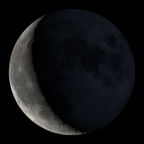
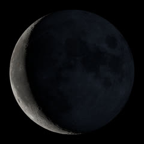
Show today's moon phase when there are no more events
- New default no-events image: today's actual moon, picked from the 30
  NASA SVS Dial-A-Moon phase images Perpetual uses, with Perpetual's
  phase calculation (MoonPhase.swift). Replaces the single crescent.
- New "Crescent moon 🌙" option, drawn with the emoji font at run time.
- README: moon phase listed first as the default; NASA credited.

Changed region(s): [[0.0556, 0.1111, 0.6111, 0.9444]]

diff --git a/StreamDeck Calendar Alerts/MoonPhase.swift b/StreamDeck Calendar Alerts/MoonPhase.swift
@@ -1,0 +1,33 @@
+import Foundation
+
+// Today's moon, for the "Moon" no-events image. Ported from Joe Angell's
+// Perpetual (SkyKit's MoonAngle) so the key shows the same frame Perpetual does.
+//
+// The images are thirty renderings of a month of phases (Images/moon-00 …
+// moon-29, 12° apart, new moon first, full at moon-15) from NASA's Scientific
+// Visualization Studio (Dial-A-Moon), made from Lunar Reconnaissance Orbiter data.
+// NASA imagery isn't copyrighted; NASA asks only for credit.
+enum MoonPhase {
+    // The angle the moon has drawn ahead of the sun around the sky: 0° at new
+    // moon, 90° at first quarter, 180° at full and 270° at last quarter. Uses the
+    // short series in the Astronomical Almanac, good to a few tenths of a degree.
+    static func phaseAngle(at date: Date) -> Double {
+        func sine(_ degrees: Double) -> Double { sin(degrees * .pi / 180) }
+        let days = date.timeIntervalSince1970 / 86_400 + 2_440_587.5 - 2_451_545
+        let t = days / 36_525
+        let moon = 218.32 + 481_267.881 * t + 6.29 * sine(135.0 + 477_198.87 * t) - 1.27 * sine(259.3 - 413_335.36 * t)
+            + 0.66 * sine(235.7 + 890_534.22 * t) + 0.21 * sine(269.9 + 954_397.74 * t)
+            - 0.19 * sine(357.5 + 35_999.05 * t) - 0.11 * sine(186.5 + 966_404.03 * t)
+        let anomaly = 357.5291 + 0.98560028 * days
+        let sun = anomaly + 1.9148 * sine(anomaly) + 0.02 * sine(2 * anomaly) + 180 + 102.9372
+        let angle = (moon - sun).truncatingRemainder(dividingBy: 360)
+        return angle < 0 ? angle + 360 : angle
+    }
+
+    // The image name for a day's moon (moon-00 … moon-29), taken at local noon so
+    // the whole day shows one frame, as Perpetual does.
+    static func imageName(onDayOf day: Date) -> String {
+        let angle = phaseAngle(at: Calendar.current.startOfDay(for: day) + 12 * 3600)
+        return String(format: "moon-%02d", Int((angle / 12).rounded()) % 30)
+    }
+}

diff --git a/propertyinspector/index.html b/propertyinspector/index.html
@@ -114,12 +114,13 @@
 
     <div class="section-label">When there are no more events</div>
     <select id="noEventsStyle">
+        <option value="moon">Moon phase</option>
         <option value="smile">Smiling calendar (light)</option>
         <option value="smile-dark">Smiling calendar (dark)</option>
         <option value="check">Checkmark Calendar</option>
         <option value="check-emoji">Checkmark ✅</option>
         <option value="thumbs">Thumbs up 👍</option>
-        <option value="moon">Crescent moon</option>
+        <option value="crescent">Crescent moon 🌙</option>
         <option value="text">Text only</option>
         <option value="message">Your own message…</option>
         <option value="custom">Your own image…</option>
@@ -150,7 +151,7 @@
             selectedCalendars: [],      // empty means "all calendars"
             openApp: 'com.apple.iCal',  // a bundle ID, a 'web:' id, or 'url'
             openURL: '',
-            noEventsStyle: 'smile',     // smile | smile-dark | check | check-emoji | thumbs | moon | text | message | custom
+            noEventsStyle: 'moon',      // moon | smile | smile-dark | check | check-emoji | thumbs | crescent | text | message | custom
             noEventsMessage: '',        // the key's text when noEventsStyle is 'message'
             noEventsImage: ''           // data: URL when noEventsStyle is 'custom'
         };
@@ -160,7 +161,7 @@
             settings.selectedCalendars = s.selectedCalendars || [];
             settings.openApp = s.openApp || 'com.apple.iCal';
             settings.openURL = s.openURL || '';
-            settings.noEventsStyle = s.noEventsStyle || 'smile';
+            settings.noEventsStyle = s.noEventsStyle || 'moon';
             settings.noEventsMessage = s.noEventsMessage || '';
             settings.noEventsImage = s.noEventsImage || '';
         }

diff --git a/StreamDeck Calendar Alerts/ButtonImageRenderer.swift b/StreamDeck Calendar Alerts/ButtonImageRenderer.swift
@@ -74,11 +74,12 @@ final class ButtonImageRenderer {
     }
 
     // What the key shows when there are no more events today. Styles:
-    //   "smile"      – the bundled smiling calendar, light version (default)
+    //   "smile"      – the bundled smiling calendar, light version
     //   "smile-dark" – the same, dark version
     //   "check"      – a drawn red calendar with a white checkmark and "All clear"
     //   "check-emoji" – a checkmark emoji
-    //   "moon"       – a crescent moon (NASA photo, bundled)
+    //   "moon"       – today's moon phase (NASA images, bundled; see MoonPhase) (default)
+    //   "crescent"   – a crescent moon emoji
     //   "thumbs"     – a thumbs-up emoji
     //   "text"       – the words "No more events today"
     //   "message"    – the user's own words, passed in as customMessage
@@ -102,10 +103,12 @@ final class ButtonImageRenderer {
             return renderMessage(Self.defaultNoEventsText)
         case "smile-dark":
             return bundledImage("no-events-dark") ?? renderAllClear()
-        case "moon":
-            return bundledImage("no-events-moon") ?? renderEmoji("🌙")
-        default:
+        case "crescent":
+            return renderEmoji("🌙")
+        case "smile":
             return bundledImage("no-events-light") ?? renderAllClear()
+        default:  // "moon", and any unknown style
+            return bundledImage(MoonPhase.imageName(onDayOf: Date())) ?? renderEmoji("🌙")
         }
     }
 

diff --git a/StreamDeck Calendar Alerts/CalendarAction.swift b/StreamDeck Calendar Alerts/CalendarAction.swift
@@ -16,7 +16,7 @@ final class CalendarAction {
     private var selectedCalendarIDs: Set<String> = []          // empty = all calendars
     private var openApp = AppLauncher.appleCalendarID          // bundle ID, or AppLauncher.urlChoice
     private var openURL = ""
-    private var noEventsStyle = "smile"                         // smile | smile-dark | check | check-emoji | thumbs | moon | text | message | custom
+    private var noEventsStyle = "moon"                          // moon | smile | smile-dark | check | check-emoji | thumbs | crescent | text | message | custom
     private var noEventsMessage = ""                            // the user's words for "message"
     private var noEventsImage = ""                              // data: URL for "custom"
 
@@ -31,7 +31,7 @@ final class CalendarAction {
         selectedCalendarIDs = Set(settings["selectedCalendars"] as? [String] ?? [])
         openApp       = settings["openApp"] as? String ?? AppLauncher.appleCalendarID
         openURL       = settings["openURL"] as? String ?? ""
-        noEventsStyle = settings["noEventsStyle"] as? String ?? "smile"
+        noEventsStyle = settings["noEventsStyle"] as? String ?? "moon"
         noEventsMessage = settings["noEventsMessage"] as? String ?? ""
         noEventsImage = settings["noEventsImage"] as? String ?? ""
         if minuteTimer != nil { update() }

diff --git a/README.md b/README.md
@@ -12,7 +12,7 @@ A Stream Deck plugin for macOS that puts your next calendar event on a key. It c
 <img src="docs/images/key-8m.png" width="72" alt="8 minutes">
 <img src="docs/images/key-3m.png" width="72" alt="3 minutes">
 <img src="docs/images/key-now.png" width="72" alt="NOW">
-<img src="docs/images/no-events-smile.png" width="72" alt="No more events">
+<img src="docs/images/no-events-moon.png" width="72" alt="No more events: tonight's moon">
 </p>
 
 **[Download the installer](https://github.com/jangellx/StreamDeck-Calendar-Alerts/releases/latest/download/com.joeangell.calendar-alerts.streamDeckPlugin)**. Requires macOS 14 or later and the Stream Deck app.
@@ -34,7 +34,7 @@ The key shows the title of your next event today and how long until it starts:
 - Your Mac's alert sound plays at 60, 30, 15 and 5 minutes before each event.
 - Only events still to come today are shown. All-day events, cancelled events and events you've declined are skipped.
 - A leading room number is trimmed from titles, so "101 Team Standup" shows as "Team Standup".
-- When there's nothing left today, the key shows a smiling calendar, or whichever image you've picked (see below).
+- When there's nothing left today, the key shows tonight's moon phase, or whichever image you've picked (see below).
 
 ## Settings
 
@@ -57,9 +57,9 @@ Select the key in the Stream Deck app to see its settings. Each key has its own,
   When there are no more events today, the key just opens the app.
 - **When there are no more events**: choose what the key shows.
 
-  <img src="docs/images/no-events-smile.png" width="56" alt="Smiling calendar (light)"> <img src="docs/images/no-events-smile-dark.png" width="56" alt="Smiling calendar (dark)"> <img src="docs/images/no-events-check.png" width="56" alt="Checkmark Calendar"> <img src="docs/images/no-events-moon.png" width="56" alt="Crescent moon"> <img src="docs/images/no-events-text.png" width="56" alt="Text only">
+  <img src="docs/images/no-events-moon.png" width="56" alt="Moon phase"> <img src="docs/images/no-events-smile.png" width="56" alt="Smiling calendar (light)"> <img src="docs/images/no-events-smile-dark.png" width="56" alt="Smiling calendar (dark)"> <img src="docs/images/no-events-check.png" width="56" alt="Checkmark Calendar"> <img src="docs/images/no-events-text.png" width="56" alt="Text only">
 
-  The choices are a smiling calendar (light or dark), a checkmark calendar, a checkmark ✅ or thumbs-up 👍 emoji, a crescent moon, the words "No more events today", or a message of your own. Choose **Your own message…** and type what the key should say; it's sized to fit the key, and line breaks you type are kept. You can also use your own image: choose **Your own image…**, then drag an image file onto the settings panel or click **choose a file**. It's scaled to fit the key.
+  The choices are tonight's actual moon phase (the default), a smiling calendar (light or dark), a checkmark calendar, a checkmark ✅, thumbs-up 👍 or crescent moon 🌙 emoji, the words "No more events today", or a message of your own. Choose **Your own message…** and type what the key should say; it's sized to fit the key, and line breaks you type are kept. You can also use your own image: choose **Your own image…**, then drag an image file onto the settings panel or click **choose a file**. It's scaled to fit the key.
 
 ## Install
 
@@ -144,5 +144,5 @@ To uninstall, quit Stream Deck and delete `~/Library/Application Support/com.elg
 
 - The idea, and the colors for each stage of the countdown, come from TJ Luoma's [icalbuddy-km-and-stream-deck](https://github.com/tjluoma/icalbuddy-km-and-stream-deck). It uses icalBuddy and Keyboard Maestro to show the time until your next meeting on a Stream Deck key.
 - I had trouble with the shell scripts, so I switched to Shortcuts before writing this plugin. That idea came from ringmaster's [iCal Daily Schedule via iOS/OSX Shortcut](https://forum.obsidian.md/t/ical-daily-schedule-via-ios-osx-shortcut/30686) on the Obsidian forum.
-- The plugin icon and the smiling calendar are from my app Perpetual. The crescent moon is from NASA's Scientific Visualization Studio ([Dial-A-Moon](https://svs.gsfc.nasa.gov/gallery/moonphase/)). The other images are drawn in code.
+- The plugin icon and the smiling calendar are from my app Perpetual. The moon-phase images are from NASA's Scientific Visualization Studio ([Dial-A-Moon](https://svs.gsfc.nasa.gov/gallery/moonphase/)), made from Lunar Reconnaissance Orbiter data, and the phase is worked out the way Perpetual does it. The other images are drawn in code.
 - Opening an event in Apple Calendar uses the `ical://ekevent/` link that [MeetingBar](https://github.com/leits/MeetingBar) uses; Apple doesn't document it. The other apps' links come from their own documentation: [Fantastical](https://flexibits.com/fantastical/help/integration), [BusyCal](https://www.busymac.com/docs/busycal/70621-url-handler) and [Notion Calendar](https://cronhq.notion.site/Cron-API-c0ad725e3b654c64a6d3fa7ae71fa8b3).
